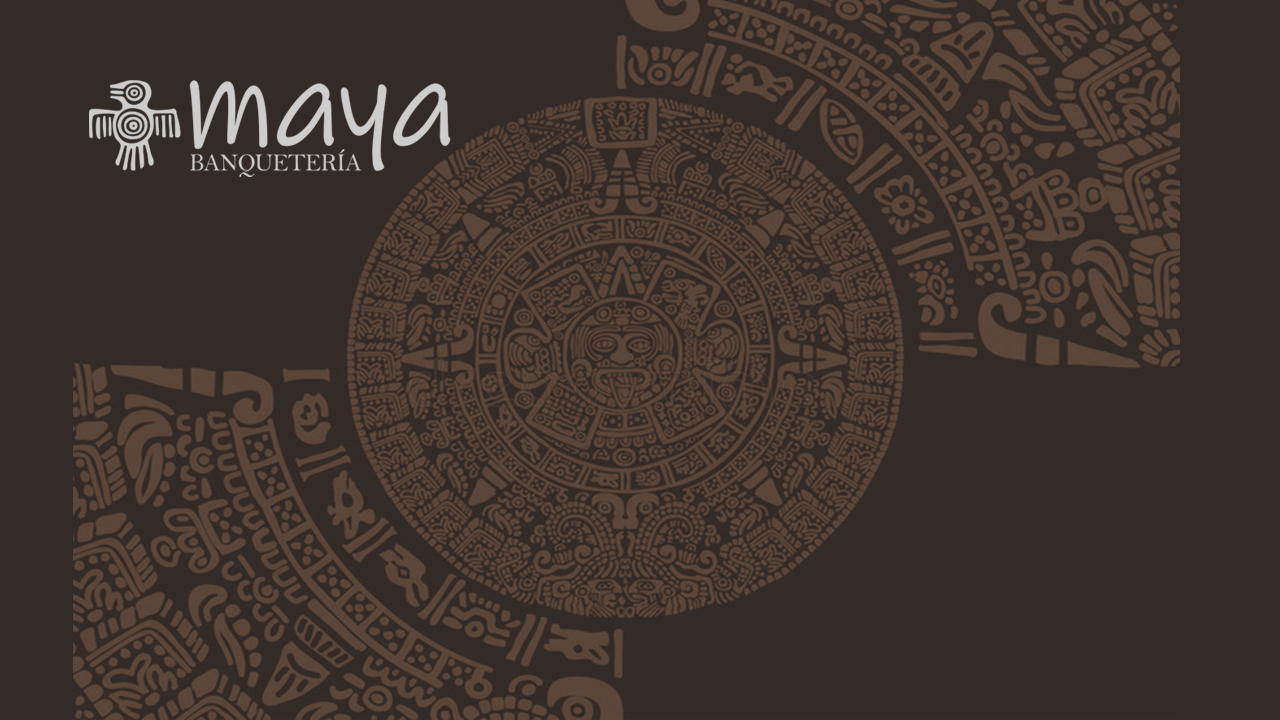
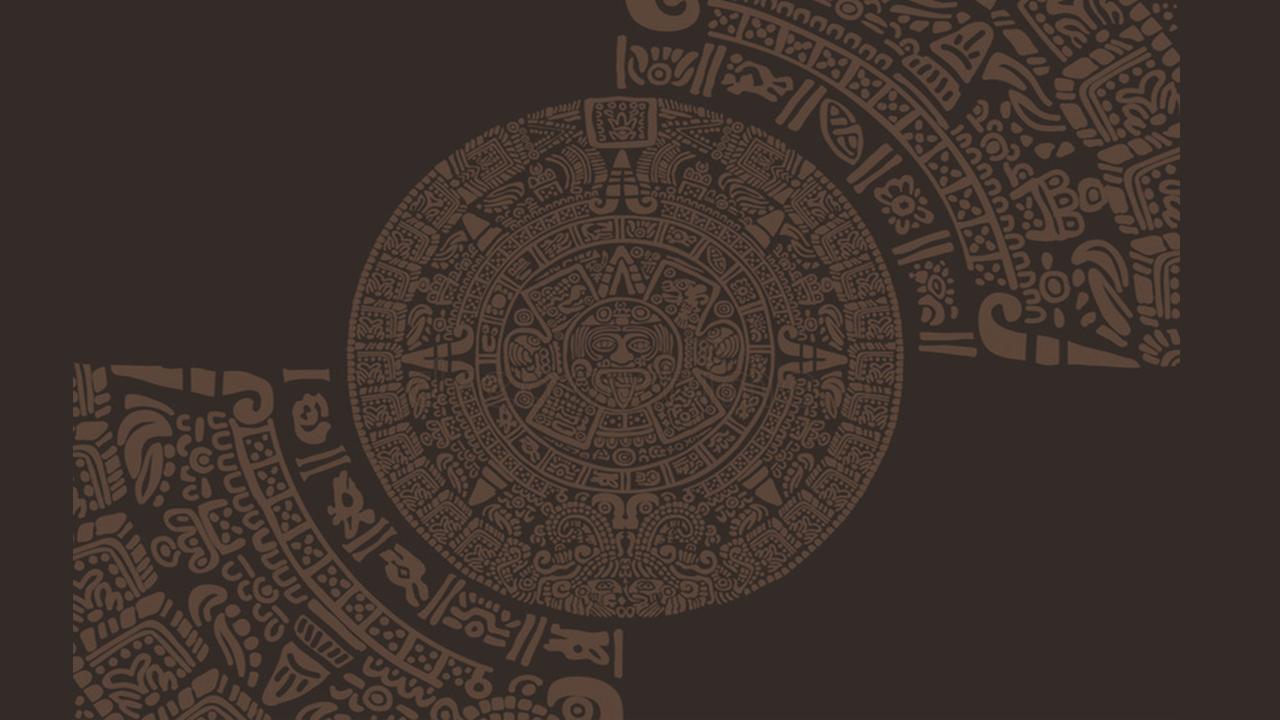
ajustes de elementos pagina login

Changed region(s): [[0.0625, 0.0917, 0.375, 0.2444]]

diff --git a/MAYA/Login/templates/Login/login.html b/MAYA/Login/templates/Login/login.html
@@ -1,50 +1,58 @@
-<!doctype html>
+<!DOCTYPE html>
 <html lang="en">
   <head>
     {% load static %}
     <!-- Required meta tags -->
-    <meta charset="utf-8">
-    <meta name="viewport" content="width=device-width, initial-scale=1">
+    <meta charset="utf-8" />
+    <meta name="viewport" content="width=device-width, initial-scale=1" />
 
     <!-- Bootstrap CSS -->
-    <link href="https://cdn.jsdelivr.net/npm/bootstrap@5.0.2/dist/css/bootstrap.min.css" rel="stylesheet" integrity="sha384-EVSTQN3/azprG1Anm3QDgpJLIm9Nao0Yz1ztcQTwFspd3yD65VohhpuuCOmLASjC" crossorigin="anonymous">
-    <link rel="stylesheet" href="{% static 'Login/css/style.css' %}">
-    <link rel="icon" href="{% static 'Login/img/tracker.png' %}">
+    <link
+      href="https://cdn.jsdelivr.net/npm/bootstrap@5.0.2/dist/css/bootstrap.min.css"
+      rel="stylesheet"
+      integrity="sha384-EVSTQN3/azprG1Anm3QDgpJLIm9Nao0Yz1ztcQTwFspd3yD65VohhpuuCOmLASjC"
+      crossorigin="anonymous"
+    />
+    <link rel="stylesheet" href="{% static 'Login/css/style.css' %}" />
+    <link rel="icon" href="{% static 'Login/img/tracker.png' %}" />
     <title>MAYA</title>
   </head>
-  <body class="container-fluid">
+  <body class="container-fluid" id="principal">
+    <div class="login">
+      <div class="logo">
+        <img src="{% static 'Login/img/logo1.png' %}" />
+      </div>
+
       <div class="card">
         <div class="titulo">
-          <p>Sistema de Control y Gestión</p>
-          <p>Banqueteria MAYA</p>  
+          <p>Sistema de control y gestión</p>
+          <p>Banquetería Maya</p>
         </div>
         <div class="card-body">
-          
-            <div class="mb-3 row">
-              <label for="user" class="label col-sm-2 ">Usuaria</label>
-              <div class="col-sm-4">
-                <input type="text" class="form-control" id="inputUser" placeholder="Yael Velasquez">
-              </div>
-            <!--/div-->
-            <!--div class="mb-3 row"-->
-              <label for="inputPassword" class="label col-sm-2 col-form-label">Contraseña</label>
-              <div class="col-sm-4">
-                <input type="password" class="form-control" id="inputPassword" placeholder="**************">
-              </div>
+          <div class="mb-3 row">
+            <label for="user" class="label col-sm-2">Usuaria</label>
+            <div class="col-sm-4">
+              <input type="text" class="form-control" id="inputUser" placeholder="Yael Velasquez"/>
+            </div>
+            <label for="inputPassword" class="label col-sm-2 col-form-label">Contraseña</label>
+            <div class="col-sm-4">
+              <input type="password" class="form-control" id="inputPassword" placeholder="**************"/>
+            </div>
           </div>
         </div>
+        <p class="alerta">Las credenciales usadas no son correctas, intentar nuevamente o contactar al administrador</p>
         <a href="#" class="btn btn-light col-sm-4 align-items-center">INGRESAR</a>
       </div>
- 
-
-
-
-
+    </div>
 
     <!-- Optional JavaScript; choose one of the two! -->
 
     <!-- Option 1: Bootstrap Bundle with Popper -->
-    <script src="https://cdn.jsdelivr.net/npm/bootstrap@5.0.2/dist/js/bootstrap.bundle.min.js" integrity="sha384-MrcW6ZMFYlzcLA8Nl+NtUVF0sA7MsXsP1UyJoMp4YLEuNSfAP+JcXn/tWtIaxVXM" crossorigin="anonymous"></script>
+    <script
+      src="https://cdn.jsdelivr.net/npm/bootstrap@5.0.2/dist/js/bootstrap.bundle.min.js"
+      integrity="sha384-MrcW6ZMFYlzcLA8Nl+NtUVF0sA7MsXsP1UyJoMp4YLEuNSfAP+JcXn/tWtIaxVXM"
+      crossorigin="anonymous"
+    ></script>
 
     <!-- Option 2: Separate Popper and Bootstrap JS -->
     <!--

diff --git a/MAYA/Login/static/Login/css/style.css b/MAYA/Login/static/Login/css/style.css
@@ -1,23 +1,44 @@
-body{
-    background-image: url(../img/fondo2.1.png);
-    background-repeat: no-repeat;
+*{
+    box-sizing: border-box;
+    margin: 0;
+    padding: 0;
+}
+
+#principal{
+    background: url(../img/fondo2.1.png) no-repeat center center fixed;
     background-size: cover;
-    display: flex;
-    align-items: center;
-    justify-content: center;
-    height: 120vh;
+
+
+}
+.login{
+    width: 100vw;
+    display: block;
+}
+.logo{
+    height: 100px;
+    max-width: 300px;
+    min-width: 200px;
+}
+.logo img{
+    object-fit: contain;
+    width: 100%;
+    height: 100%;
 }
 .card{
+    display: flex;
+    max-width: 50%;
+    margin-top: 40px;
+    margin-left: 20%;
     justify-content: center;
     align-items: center;
     background-color: rgba(0, 0, 0, 0.7);
     border: black 8px solid;
-    box-shadow: inset 0 0 0 5px white, 8px 8px 20px rgba(255, 255, 255, 0.3);
+    box-shadow: inset 0 0 0 5px #d74e33d6, 8px 8px 20px #d74e336a;
 }   
-.titulo{
+.card .titulo{
     padding-top: 20px;
-    padding-bottom: 20px;
-    color: aliceblue;
+    padding-bottom: 10px;
+    color: rgb(222, 187, 147);
     justify-content: center;
     text-align: center;
     align-items: center;
@@ -27,11 +48,16 @@ body{
 
 .label{
     color:aliceblue;
-    padding-bottom: 20px;
+    padding-bottom: 10px;
     padding-left: 10px;
     font-size: 15px;
+}
+.alerta{
+    color: #d74e33d6;
+    visibility: hidden;
 }
 .btn{
     max-width: 300;
     margin-bottom: 30px;
+    background-color: rgb(222, 187, 147);
 }
